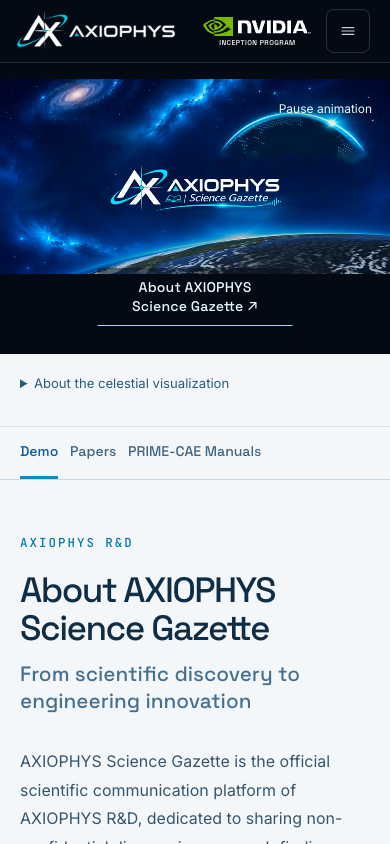
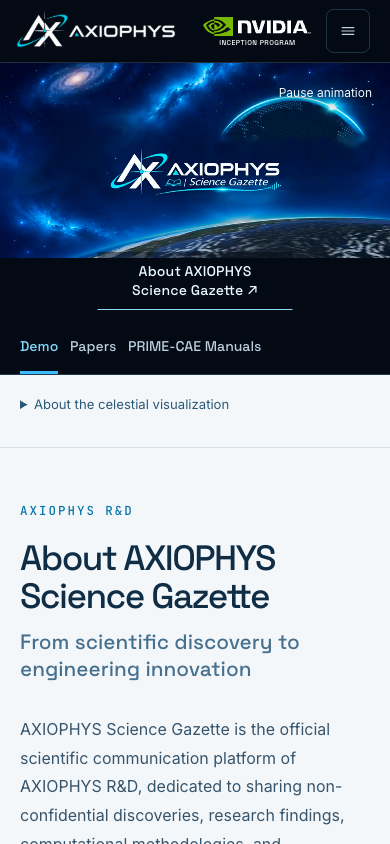
Fit Gazette video and menu to viewport

diff --git a/research.html b/research.html
@@ -1,4 +1,4 @@
-<!doctype html><html lang="en"><head><meta charset="utf-8"><meta name="viewport" content="width=device-width,initial-scale=1"><title>AXIOPHYS Science Gazette | Research &amp; Scientific Publications</title><meta name="description" content="Explore AXIOPHYS Science Gazette, the scientific communication platform of AXIOPHYS R&amp;D, featuring computational science, engineering demonstrations, research papers and PRIME-CAE manuals."><link rel="canonical" href="https://axiophys.com/research.html"><meta name="theme-color" content="#030a14"><meta property="og:title" content="AXIOPHYS Science Gazette | Research &amp; Scientific Publications"><meta property="og:description" content="Explore AXIOPHYS Science Gazette, the scientific communication platform of AXIOPHYS R&amp;D, featuring computational science, engineering demonstrations, research papers and PRIME-CAE manuals."><meta property="og:url" content="https://axiophys.com/research.html"><meta property="og:type" content="website"><meta property="og:image" content="https://axiophys.com/media/gazette/science-gazette-poster.jpg"><link href="https://fonts.googleapis.com/css2?family=Space+Grotesk:wght@400;500;600&family=Inter:wght@400;500;600&family=JetBrains+Mono:wght@400;500&display=swap" rel="stylesheet"><link rel="stylesheet" href="css/tokens.css"><link rel="stylesheet" href="css/base.css"><link rel="stylesheet" href="css/layout.css"><link rel="stylesheet" href="css/components.css"><link rel="stylesheet" href="css/hero.css"><link rel="stylesheet" href="css/sections.css"><link rel="stylesheet" href="css/mobile.css"><link rel="stylesheet" href="css/axiophys.css"><link rel="stylesheet" href="css/news.css"><link rel="stylesheet" href="css/research.css?v=3"></head><body class="gazette-page"><svg xmlns="http://www.w3.org/2000/svg" width="0" height="0" aria-hidden="true" style="position:absolute;pointer-events:none"><defs><filter id="axiophys-on-dark" color-interpolation-filters="sRGB"><feColorMatrix type="matrix" values="1 -1.3944 0 0 1.1155  0 -0.26667 0 0 1.0251  0 -0.13333 0 0 1.01255  0 0 0 1 0"/></filter></defs></svg><header class="nav" id="nav" data-env="navy">
+<!doctype html><html lang="en"><head><meta charset="utf-8"><meta name="viewport" content="width=device-width,initial-scale=1"><script>if ('scrollRestoration' in history) history.scrollRestoration='manual';addEventListener('pageshow',function(){if(!location.hash)scrollTo({top:0,left:0,behavior:'instant'})});</script><title>AXIOPHYS Science Gazette | Research &amp; Scientific Publications</title><meta name="description" content="Explore AXIOPHYS Science Gazette, the scientific communication platform of AXIOPHYS R&amp;D, featuring computational science, engineering demonstrations, research papers and PRIME-CAE manuals."><link rel="canonical" href="https://axiophys.com/research.html"><meta name="theme-color" content="#030a14"><meta property="og:title" content="AXIOPHYS Science Gazette | Research &amp; Scientific Publications"><meta property="og:description" content="Explore AXIOPHYS Science Gazette, the scientific communication platform of AXIOPHYS R&amp;D, featuring computational science, engineering demonstrations, research papers and PRIME-CAE manuals."><meta property="og:url" content="https://axiophys.com/research.html"><meta property="og:type" content="website"><meta property="og:image" content="https://axiophys.com/media/gazette/science-gazette-poster.jpg"><link href="https://fonts.googleapis.com/css2?family=Space+Grotesk:wght@400;500;600&family=Inter:wght@400;500;600&family=JetBrains+Mono:wght@400;500&display=swap" rel="stylesheet"><link rel="stylesheet" href="css/tokens.css"><link rel="stylesheet" href="css/base.css"><link rel="stylesheet" href="css/layout.css"><link rel="stylesheet" href="css/components.css"><link rel="stylesheet" href="css/hero.css"><link rel="stylesheet" href="css/sections.css"><link rel="stylesheet" href="css/mobile.css"><link rel="stylesheet" href="css/axiophys.css"><link rel="stylesheet" href="css/news.css"><link rel="stylesheet" href="css/research.css?v=4"></head><body class="gazette-page"><svg xmlns="http://www.w3.org/2000/svg" width="0" height="0" aria-hidden="true" style="position:absolute;pointer-events:none"><defs><filter id="axiophys-on-dark" color-interpolation-filters="sRGB"><feColorMatrix type="matrix" values="1 -1.3944 0 0 1.1155  0 -0.26667 0 0 1.0251  0 -0.13333 0 0 1.01255  0 0 0 1 0"/></filter></defs></svg><header class="nav" id="nav" data-env="navy">
   <div class="progress" aria-hidden="true"><i id="progressBar"></i></div>
   <div class="shell nav__in">
     <a class="nav__brand" href="#top" aria-label="AXIOPHYS home">
@@ -40,8 +40,8 @@
 <source src="media/gazette/science-gazette-mobile.mp4" type="video/mp4" media="(max-width:700px)"><source src="media/gazette/science-gazette-desktop.mp4" type="video/mp4"></video>
 <a class="gazette-hero__about" href="#about-gazette">About AXIOPHYS Science Gazette <span aria-hidden="true">↗</span></a>
 <button class="gazette-hero__play" type="button" data-gazette-toggle aria-label="Play animation">Play animation</button></div></section>
+<nav class="gazette-categories" aria-label="Research content"><a href="#demo" data-gazette-tab="demo" aria-current="true">Demo</a><a href="#papers" data-gazette-tab="papers">Papers</a><a href="#manuals" data-gazette-tab="manuals">PRIME-CAE Manuals</a></nav>
 <details class="gazette-credit shell"><summary>About the celestial visualization</summary><p>This independently produced artistic visualization depicts a computationally rendered Earth and spiral galaxy in slow motion. Earth imagery is informed by NASA’s <a href="https://science.nasa.gov/earth/earth-observatory/blue-marble-next-generation/">Blue Marble: Next Generation</a>. Specific source-image provenance for the finished animation has not been independently confirmed. The animation uses simplified motion and synthetic atmospheric effects. It is not real-time astronomical footage or a physical simulation. NASA did not produce or endorse this animation.</p><p>Scientific references: <a href="https://science.nasa.gov/learn/basics-of-space-flight/chapter2-1/">NASA reference systems</a> · <a href="https://science.nasa.gov/missions/hubble/hubble-comes-face-to-face-with-spirals-arms/">spiral galaxy structure</a> · <a href="https://www.nasa.gov/nasa-brand-center/images-and-media/">NASA media usage</a>.</p></details>
-<nav class="gazette-categories shell" aria-label="Research content"><a href="#demo" data-gazette-tab="demo" aria-current="true">Demo</a><a href="#papers" data-gazette-tab="papers">Papers</a><a href="#manuals" data-gazette-tab="manuals">PRIME-CAE Manuals</a></nav>
 <article class="gazette-intro shell" id="about-gazette"><p class="gazette-eyebrow">AXIOPHYS R&amp;D</p><h1>About AXIOPHYS Science Gazette</h1><h2>From scientific discovery to engineering innovation</h2><p>AXIOPHYS Science Gazette is the official scientific communication platform of AXIOPHYS R&amp;D, dedicated to sharing non-confidential discoveries, research findings, computational methodologies, and technological advancements emerging from the development of PRIME-CAE and the broader research activities of AXIOPHYS.</p><p>Through scientific publications, interactive demonstrations, and technical documentation, we aim to make computational science more accessible, foster scientific understanding, and connect fundamental research with practical engineering innovation.</p><a class="gazette-link" href="about-science-gazette.html">See more <span aria-hidden="true">↗</span></a></article>
 <section class="gazette-browser shell" aria-label="Research archive"><section id="demo" data-gazette-panel="demo"><div class="gazette-section-head"><p class="gazette-eyebrow">Research archive</p><h2>Demo</h2><p>Engineering demonstrations and technical resources from AXIOPHYS and PRIME-CAE R&amp;D.</p></div>
 <section aria-labelledby="cube-video-title" class="news-cube-video"><h2 id="cube-video-title">Stress concentration around a hole</h2><figure class="news-demo news-media-row"><div class="news-media-visual"><video aria-label="Cube with a hole under side tension" controls="" playsinline="" poster="assets/news/PRIME-CAE_FEM_stress_concentration.jpg" preload="none"><source src="assets/news/PRIME-CAE_side_tension_demo.mp4" type="video/mp4"/>Your browser does not support embedded video. <a href="assets/news/PRIME-CAE_side_tension_demo.mp4">Download the cube side-tension video</a>.</video></div><figcaption class="news-media-copy"><h3>Cube under side tension</h3><p>Inspect stress concentration around the hole as the cube is pulled from its sides. The video presents the model’s stress field.</p><p class="news-media-note">Cube with a hole under side tension · PRIME-CAE demonstration.</p></figcaption></figure></section>
@@ -57,4 +57,4 @@
     <nav class="foot__links" aria-label="Footer"><a href="index.html#about">About</a> <a href="index.html#layer">PRIME-CAE</a> <a href="research.html">Research</a> <a href="news.html">News</a> <a href="index.html#access">Contact</a></nav>
     <span class="t-micro">© <span id="year">2026</span> AXIOPHYS Inc.</span>
   </div>
-</footer><script type="module" src="js/research.js?v=2"></script></body></html>
+</footer><script type="module" src="js/research.js?v=3"></script></body></html>

diff --git a/css/research.css b/css/research.css
@@ -2,9 +2,9 @@
 .gazette-page .nav,.news-page .nav{background:#030a14}
 .gazette-page .nav__a[aria-current="page"],.news-page .nav__a[aria-current="page"]{color:#78cfff}
 .gazette-page .nav__ind{display:none}
-.gazette-hero{min-height:100svh;padding:var(--gazette-nav-h,var(--nav-h)) 0 0;background:#030a14;display:grid;place-items:center}
-.gazette-hero__frame{position:relative;width:min(100%,1920px);margin-inline:auto;isolation:isolate}
-.gazette-hero video{display:block;width:100%;height:auto;max-height:calc(100svh - var(--gazette-nav-h,var(--nav-h)));aspect-ratio:2/1;object-fit:contain;background:#030a14}
+.gazette-hero{min-height:calc(100svh - var(--gazette-category-h,58px));padding:var(--gazette-nav-h,var(--nav-h)) 0 0;background:#030a14;display:grid;align-content:start}
+.gazette-hero__frame{position:relative;width:100%;margin-inline:auto;isolation:isolate}
+.gazette-hero video{display:block;width:100%;height:auto;max-height:calc(100svh - var(--gazette-nav-h,var(--nav-h)) - var(--gazette-category-h,58px));aspect-ratio:2/1;object-fit:contain;background:#030a14}
 .gazette-hero__about{position:absolute;left:50%;bottom:22%;translate:-50% 0;z-index:2;white-space:nowrap;color:#e9f8ff;font:500 clamp(.88rem,1.1vw,1.1rem)/1.3 var(--font-sans);letter-spacing:.01em;padding:10px 16px;border-bottom:1px solid #8cdcf8;background:rgba(3,10,20,.48)}
 .gazette-hero__about:hover{background:rgba(3,10,20,.78)}
 .gazette-hero__play{position:absolute;right:clamp(12px,2vw,28px);top:clamp(12px,2vw,28px);z-index:2;color:#eef9ff;background:rgba(3,10,20,.12);border:0;padding:8px 10px;min-height:44px;font-size:.85rem;text-shadow:0 1px 8px #000}
@@ -12,11 +12,11 @@
 .gazette-credit{padding-block:18px 24px;border-bottom:1px solid #d6e1e9;color:#476177;font-size:.82rem;line-height:1.7}
 .gazette-credit summary{cursor:pointer;color:#2a5877;min-height:30px}
 .gazette-credit p{max-width:85ch;margin:12px 0 0}.gazette-credit a,.gazette-article a:not(.gazette-back){color:#086ca8;text-decoration:underline;text-underline-offset:3px}
-.gazette-categories{position:sticky;top:var(--gazette-nav-h,var(--nav-h));z-index:12;display:flex;gap:clamp(8px,3vw,34px);background:#f4f7fa;border-bottom:1px solid #c7d8e4;overflow:auto;scrollbar-width:thin}
+.gazette-categories{position:sticky;top:var(--gazette-nav-h,var(--nav-h));z-index:12;display:flex;gap:clamp(8px,3vw,34px);width:100%;padding-inline:var(--gutter);background:#030a14;border-bottom:1px solid #1d3b51;overflow:auto;scrollbar-width:thin}
 .gazette-categories{transition:transform .24s ease,opacity .24s ease}
 .gazette-categories--hidden{transform:translateY(calc(-100% - var(--gazette-nav-h,var(--nav-h))));opacity:0;pointer-events:none}
-.gazette-categories a{display:inline-flex;align-items:center;min-height:58px;white-space:nowrap;color:#43647e;font:500 clamp(.88rem,1.3vw,1.05rem)/1.3 var(--font-sans);border-bottom:3px solid transparent}
-.gazette-categories a[aria-current="true"]{color:#0e5c8d;border-color:#0b8cc9}
+.gazette-categories a{display:inline-flex;align-items:center;min-height:58px;white-space:nowrap;color:#b9cddd;font:500 clamp(.88rem,1.3vw,1.05rem)/1.3 var(--font-sans);border-bottom:3px solid transparent}
+.gazette-categories a[aria-current="true"]{color:#83d8ff;border-color:#3cbcff}
 .gazette-intro{padding-block:clamp(64px,8vw,120px);scroll-margin-top:calc(var(--gazette-nav-h,var(--nav-h)) + 70px);border-bottom:1px solid #cad9e3}
 .gazette-intro>*{max-width:78ch}.gazette-eyebrow{font:500 .78rem/1.5 var(--font-mono);letter-spacing:.16em;text-transform:uppercase;color:#0875a9;margin-bottom:18px}
 .gazette-intro h1,.gazette-article h1{font:500 clamp(2.2rem,5vw,4.6rem)/1.08 var(--font-sans);letter-spacing:-.045em;color:#102d46;margin:0 0 14px;max-width:18ch}
@@ -35,5 +35,5 @@
 .gazette-page .foot,.news-page .foot{background:#030a14;color:#d9eafa}
 .news-page .news-hero{padding-top:calc(var(--nav-h) + 46px)}
 .news-content#news-updates{scroll-margin-top:calc(var(--nav-h) + 22px)}
-@media(max-width:700px){.gazette-hero{min-height:0;padding-top:calc(var(--gazette-nav-h,var(--nav-h)) + 16px);padding-bottom:16px;display:block}.gazette-hero__frame{padding-bottom:64px}.gazette-hero video{max-height:none}.gazette-hero__about{bottom:12px;left:50%;max-width:calc(100% - 28px);white-space:normal;text-align:center;font-size:.88rem}.gazette-hero__play{top:8px;right:8px;font-size:.75rem;background:rgba(3,10,20,.08)}.gazette-categories a{min-height:52px}.gazette-intro{padding-block:54px}.gazette-browser{padding-bottom:60px}.gazette-article{padding-top:calc(var(--gazette-nav-h,var(--nav-h)) + 38px)}.gazette-article .gazette-back{margin-bottom:38px}}
+@media(max-width:700px){.gazette-hero{min-height:0;padding-top:var(--gazette-nav-h,var(--nav-h));padding-bottom:0;display:block}.gazette-hero__frame{padding-bottom:64px}.gazette-hero video{max-height:none}.gazette-hero__about{bottom:12px;left:50%;max-width:calc(100% - 28px);white-space:normal;text-align:center;font-size:.88rem}.gazette-hero__play{top:8px;right:8px;font-size:.75rem;background:rgba(3,10,20,.08)}.gazette-categories a{min-height:52px}.gazette-intro{padding-block:54px}.gazette-browser{padding-bottom:60px}.gazette-article{padding-top:calc(var(--gazette-nav-h,var(--nav-h)) + 38px)}.gazette-article .gazette-back{margin-bottom:38px}}
 @media(prefers-reduced-motion:reduce){.gazette-hero video{animation:none}}

diff --git a/js/research.js b/js/research.js
@@ -16,9 +16,11 @@ let categoryFrame = 0;
 
 function measureHeader() {
   document.documentElement.style.setProperty('--gazette-nav-h', `${Math.ceil(header.getBoundingClientRect().height)}px`);
+  document.documentElement.style.setProperty('--gazette-category-h', `${Math.ceil(categoryBar.getBoundingClientRect().height)}px`);
 }
 measureHeader();
 new ResizeObserver(measureHeader).observe(header);
+new ResizeObserver(measureHeader).observe(categoryBar);
 
 function selectCategory() {
   const category = location.hash.slice(1);
